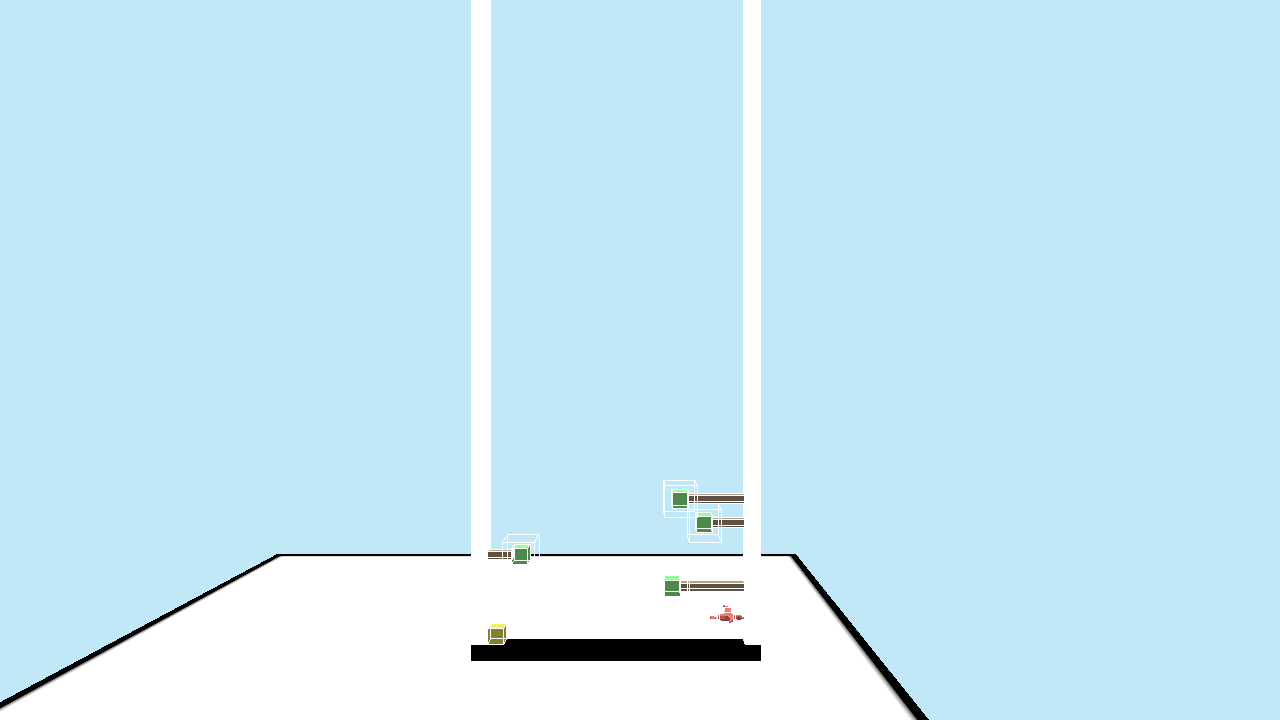
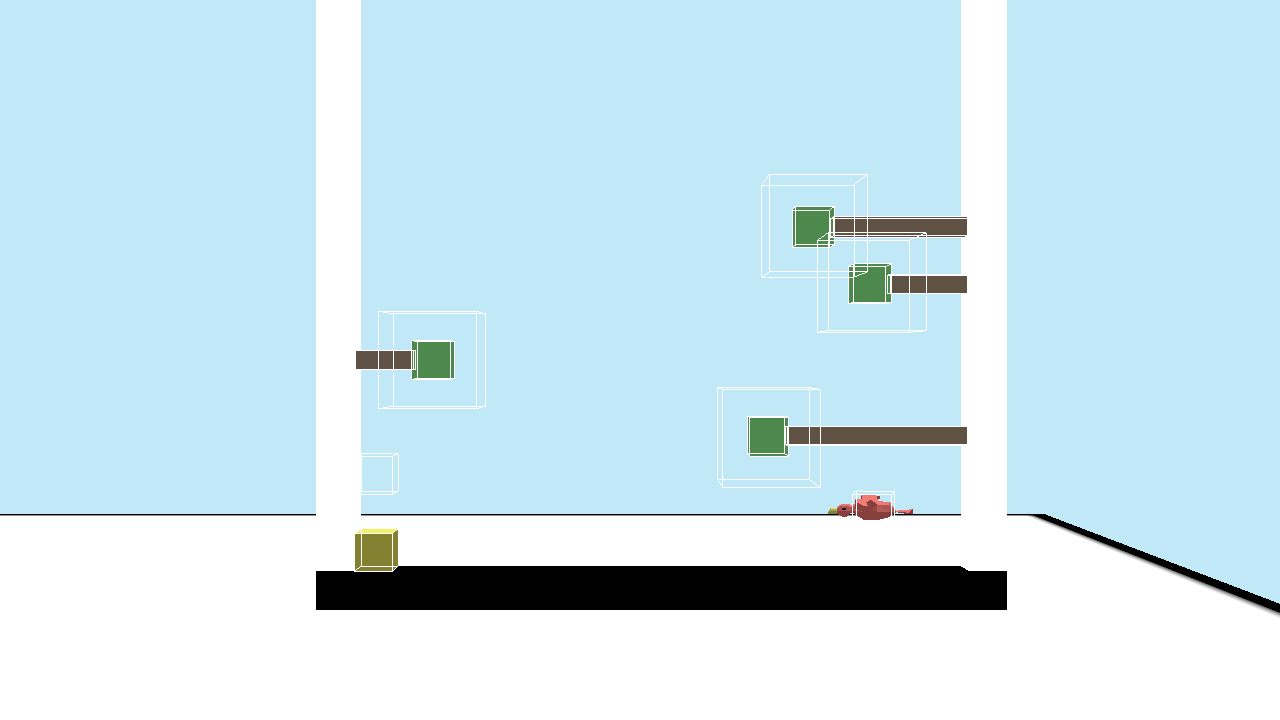
距離表示

Changed region(s): [[0.0, 0.0, 1.0, 1.0]]

diff --git a/Application/SpriteApp/ScreenApp/GameScreen.cpp b/Application/SpriteApp/ScreenApp/GameScreen.cpp
@@ -103,7 +103,7 @@ void GameScreen::Initialize()
 	mSprite_->SetAnchorPoint({ 0.0f, 0.0f });
 
 	// 表示用スプライト5個分を生成（00:00）
-	for (int i = 0; i < 3; ++i) {
+	for (int i = 0; i < 4; ++i) {
 		ditSprites_[i] = std::make_unique<Sprite>();
 		ditSprites_[i]->Initialize("Resources/Textures/Each_Number/distance_0.png");
 		ditSprites_[i]->SetAnchorPoint({ 0.5f, 0.5f });
@@ -288,25 +288,26 @@ void GameScreen::Updatedistance()
 	playerPos = Transform(playerPos, matViewProjectionViewport);
 
 	// 時間をfloatで取得（例：9.83）
-	float dit = player_->GetCenterPosition().y - 2.0f;
+	float dit = checkPointPos_ - (player_->GetCenterPosition().y );
 	//if (dit > 10.0f) dit = 10.0f;  // 最大10秒
 
-	int seconds = static_cast<int>(dit);          // 整数部（9）
-	int fraction = static_cast<int>(dit * 100) % 100; // 小数部2桁（83）
+// 整数部と小数部に分ける
+	int seconds = static_cast<int>(dit);                  // 整数部（例：123）
+	int fraction = static_cast<int>(dit * 100) % 100;     // 小数部2桁（例：45）
 
-	// 桁ごとに数字を分解
-	int secTens = seconds / 10;
-	int secOnes = seconds % 10;
-	int fracTens = fraction / 10;
-	int fracOnes = fraction % 10;
+	// 100の位まで分解（最大999まで想定）
+	int secHundreds = seconds / 100;                      // 百の位
+	int secTens = (seconds / 10) % 10;                    // 十の位
+	int secOnes = seconds % 10;                           // 一の位
 
 	// テクスチャを変更
-	ditSprites_[0]->ChangeTexture(disPaths_[secTens]);
-	ditSprites_[1]->ChangeTexture(disPaths_[secOnes]);
-	ditSprites_[2]->ChangeTexture(mTexturePath_);
+	ditSprites_[0]->ChangeTexture(disPaths_[secHundreds]);
+	ditSprites_[1]->ChangeTexture(disPaths_[secTens]);
+	ditSprites_[2]->ChangeTexture(disPaths_[secOnes]);
+	ditSprites_[3]->ChangeTexture(mTexturePath_);
 	// 配置と更新
 	float spacing = 20.0f;
-	for (int i = 0; i < 3; ++i) {
+	for (int i = 0; i < 4; ++i) {
 		ditSprites_[i]->SetPosition({ playerPos.x - 10 + spacing * i, playerPos.y - 50, 0.0f });
 		ditSprites_[i]->Update();
 	}

diff --git a/Application/SpriteApp/ScreenApp/GameScreen.h b/Application/SpriteApp/ScreenApp/GameScreen.h
@@ -3,6 +3,7 @@
 
 class Player;
 class Camera;
+class CheckPoint;
 class GameScreen
 {
 public:
@@ -39,11 +40,16 @@ public:
 
 	void SetPlayer(Player* player) { player_ = player; }
 	void SetCamera(Camera* camera) { camera_ = camera; }
+	void SetCheckPoint(float checkPoint) { checkPointPos_ = checkPoint; }
+	void SetCheckPointPos(Vector3 checkPointv) { checkPointPosv_ = checkPointv; }
 
 private:
 
 	Player* player_ = nullptr;
 	Camera* camera_ = nullptr;
+	float checkPointPos_ = 0.0f;
+	Vector3 checkPointPosv_{};
+
 	std::unique_ptr<UIBase> background_[2];
 	uint32_t numBGs_ = 2;
 
@@ -68,7 +74,7 @@ private:
 
 	// 進んだ距離
 	std::unique_ptr<Sprite> mSprite_;
-	std::array<std::unique_ptr<Sprite>, 3> ditSprites_;
+	std::array<std::unique_ptr<Sprite>, 4> ditSprites_;
 	std::array<std::string, 10> disPaths_;
 	std::string mTexturePath_ = "Resources/Textures/Each_Number/m.png";
 

diff --git a/Application/Scenes/MainScenes/Game/GameScene.cpp b/Application/Scenes/MainScenes/Game/GameScene.cpp
@@ -98,6 +98,7 @@ void GameScene::Initialize()
 	gameScreen_ = std::make_unique<GameScreen>();
 	gameScreen_->SetCamera(sceneCamera_.get());
 	gameScreen_->SetPlayer(stageManager_->GetPlayer());
+	gameScreen_->SetCheckPointPos(stageManager_->GetCheckPointPos());
 	gameScreen_->Initialize();
 	
 	//=====================================================//
@@ -113,7 +114,7 @@ void GameScene::Update()
 {
 	GameTime::Update();
 	GameTime::ImGui();
-
+	gameScreen_->SetCheckPoint(stageManager_->GetCheckPoint());
 #ifdef _DEBUG
 	if ((Input::GetInstance()->TriggerKey(DIK_LCONTROL)) || Input::GetInstance()->IsPadTriggered(0, GamePadButton::RT)) {
 		isDebugCamera_ = !isDebugCamera_;

diff --git a/Application/Stage/StageManager.h b/Application/Stage/StageManager.h
@@ -34,6 +34,17 @@ public:
 
 	void SetMapChipInfo(MapChipInfo* mapChipInfo) { mpInfo_ = mapChipInfo; }
 
+	/// <summary>
+	/// 現在のチェックポイントの座標を取得 Vector3
+	/// </summary>
+	Vector3 GetCheckPointPos() const { return stageList_[currentStageNum_]->GetCheckPointPos(); }
+
+	/// <summary>
+	/// 現在のチェックポイントの座標を取得 float
+	/// </summary>
+	float GetCheckPoint() const { return stageList_[currentStageNum_]->GetCheckPoint(); }
+
+
 private:
 	Input* input_ = nullptr;
 

diff --git a/Application/Stage/Stage.h b/Application/Stage/Stage.h
@@ -57,6 +57,11 @@ public:
 	void SetEnemyManager(EnemyManager* enemyManager) { enemyManager_ = enemyManager; }
 	void SetGrassManager(GrassManager* grassManager) { grassManager_ = grassManager; }
 
+	/// <summary>
+	/// チェックポイントの座標を取得
+	/// </summary>
+	float GetCheckPoint();
+	Vector3 GetCheckPointPos();
 
 private:
 	int currentStageNum_ = 0;

diff --git a/Application/CheckPoint/CheckPoint.h b/Application/CheckPoint/CheckPoint.h
@@ -20,7 +20,7 @@ public: // メンバ関数
 public: // getter & setter
 	float* GetCheckPointHight() { return &checkPointHight_; }
 	void SetCheckPointHight(float checkPointHight) { checkPointHight_ = checkPointHight; }
-
+	Vector3 GetCheckPointPos() { return worldTransform_.translation_; }
 
 public: // デバッグ用メンバ関数
 //#ifdef _DEBUG

diff --git a/Application/Stage/Stage.cpp b/Application/Stage/Stage.cpp
@@ -157,3 +157,13 @@ void Stage::ReloadObject()
 		checkPoint_.SetCheckPointHight(*hight);
 	}
 }
+
+float Stage::GetCheckPoint()
+{
+	return *checkPoint_.GetCheckPointHight();
+}
+
+Vector3 Stage::GetCheckPointPos()
+{
+	return checkPoint_.GetCheckPointPos();
+}
